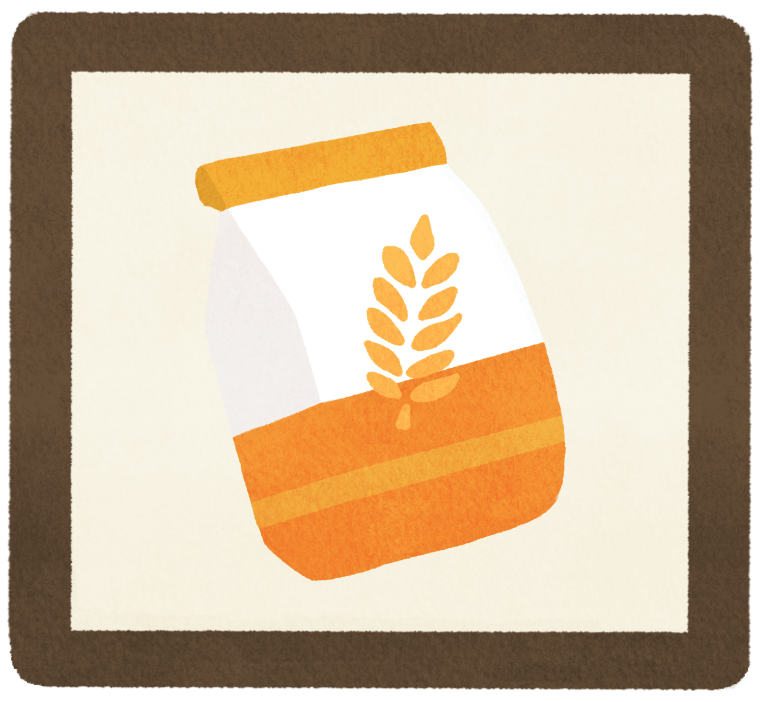
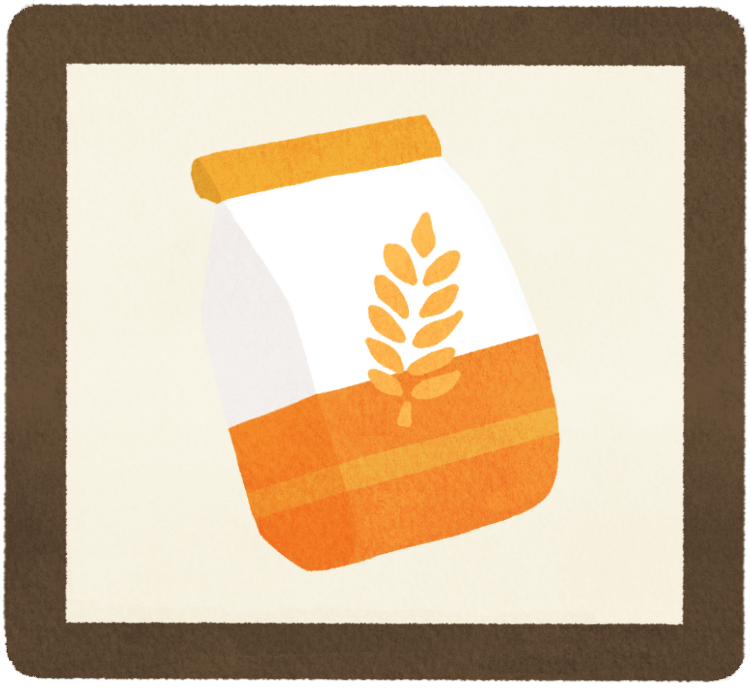
p1

diff --git a/index.html b/index.html
@@ -181,7 +181,7 @@
             margin: 0;
             grid-column: 12/13;
             grid-row: 8/9;
-            padding-left: 110px;
+            padding-left: 54px;
             padding-top: 315px;
         }
 
@@ -189,7 +189,15 @@
             margin: 0;
             grid-column: 12/13;
             grid-row: 8/9;
-            padding-left: 220px;
+            padding-left: 164px;
+            padding-top: 315px;
+        }
+
+        .wwflour {
+            margin: 0;
+            grid-column: 12/13;
+            grid-row: 8/9;
+            padding-left: 274px;
             padding-top: 315px;
         }
 
@@ -323,8 +331,9 @@
         <img class="pear" width="96" height="87.6" src="icons/pear.PNG">
         <img class="pumpkin" width="96.6" height="88.2" src="icons/pumpkin.PNG">
         <img class="coconut" width="96" height="87.6" src="icons/coconut.PNG">
-        <img class="flour" width="96.6" height="88.2" src="icons/flour.PNG">
+        <img class="flour" width="94.8" height="87" src="icons/flour.PNG">
         <img class="sugar" width="95.4" height="87.6" src="icons/sugar.PNG">
+        <img class="wwflour" width="95.4" height="87.6" src="icons/wwflour.PNG">
         <h1 class="ingredients">Ingredients</h1>
         <h1 class="recipes">Recipes</h1>
         <div class="nestedtop">
